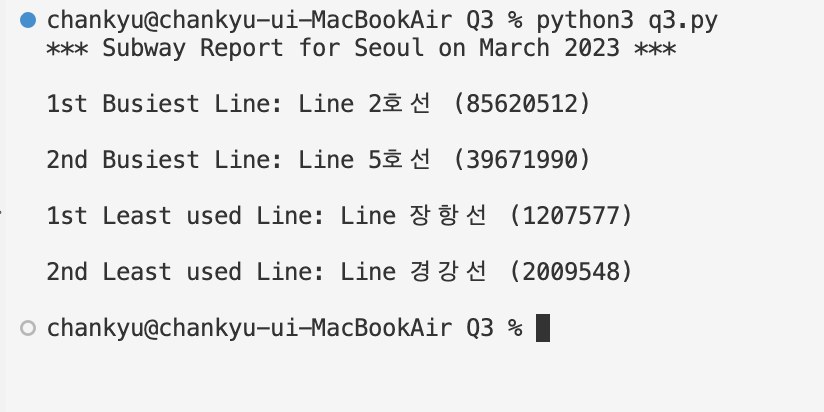
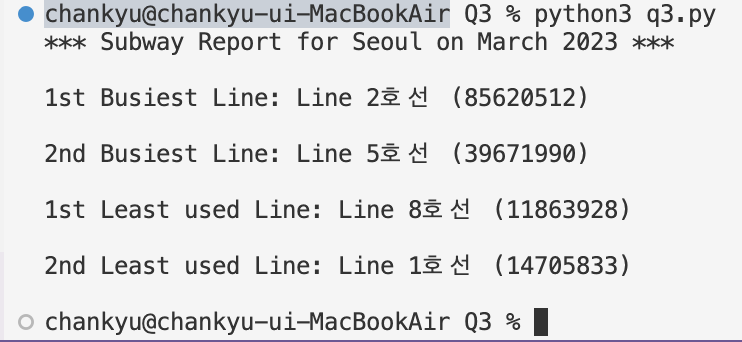
17:18

diff --git a/Q3/q3.py b/Q3/q3.py
@@ -9,11 +9,13 @@ def main():
 
 # row[1] 호선
 # row[4] 승차객수 
+    lines = ['1호선', '2호선', '3호선', '4호선', '5호선', '6호선', '7호선', '8호선', '9호선']
     for row in data:
-        if row[1] in dic:
-            dic[row[1]] = dic[row[1]] + int(row[4])+int(row[5])
-        else:
-            dic[row[1]] = int(row[4]) + int(row[5])
+        if row[1] in lines:
+            if row[1] in dic:
+                dic[row[1]] = dic[row[1]] + int(row[4])+int(row[5])
+            else:
+                dic[row[1]] = int(row[4]) + int(row[5])
 
     newList = sorted(dic.items(), key = lambda x: x[1])
 

diff --git a/Q1/q1.py b/Q1/q1.py
@@ -30,9 +30,9 @@ def main():
     print()
     print("Average Temperature: {:.2f} Celsius".format(sumMean/i))
     print()
-    print("Average Temperature: {:.2f} Celsius".format(sumMn/i))
+    print("Average Minimum Temperature: {:.2f} Celsius".format(sumMn/i))
     print()
-    print("Average Temperature: {:.2f} Celsius".format(sumMx/i))
+    print("Average Maximum Temperature: {:.2f} Celsius".format(sumMx/i))
 
     f.close()
 

diff --git a/Q4/q4.py b/Q4/q4.py
@@ -7,19 +7,19 @@ def main():
 
     Mx1 = 0
     Mx1L = ""
-    Mn1 = 99999999
+    Mn1 = 999999999
     Mn1L = ""
     Mx2 = 0
     Mx2L = ""
-    Mn2 = 99999999
+    Mn2 = 999999999
     Mn2L = ""
     Mx3 = 0
     Mx3L = ""
-    Mn3 = 99999999
+    Mn3 = 999999999
     Mn3L = ""
     Mx4 = 0
     Mx4L = ""
-    Mn4 = 99999999
+    Mn4 = 999999999
     Mn4L = ""
 
 # row[1] 호선
